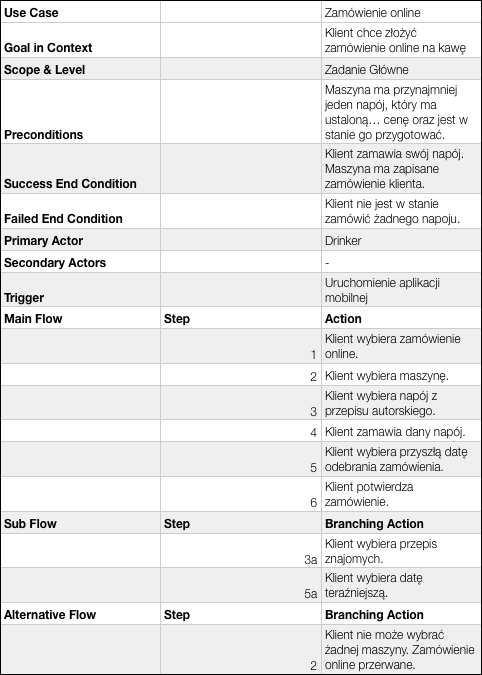
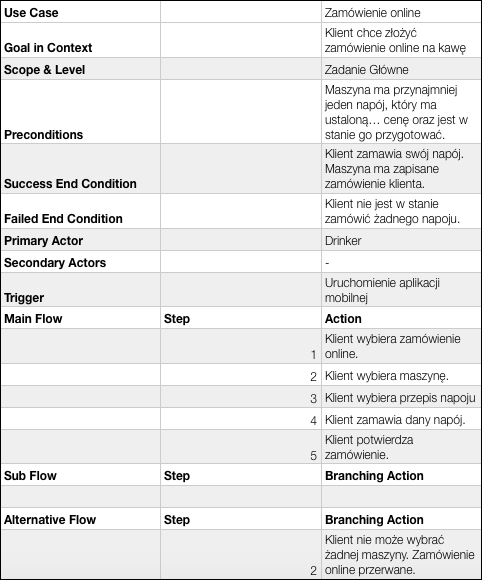
Added Class Diagrams and Sequence Diagrams in s9549/models, Updated Use Case Description

diff --git a/examples/coffeemaker/src/test/java/edu/pjatk/inn/coffeemaker/CoffeeMakerTest.java b/examples/coffeemaker/src/test/java/edu/pjatk/inn/coffeemaker/CoffeeMakerTest.java
@@ -92,6 +92,7 @@ public class CoffeeMakerTest {
 	public void addContextRecepie() throws Exception {
 		coffeeMaker.addRecipe(Recipe.getContext(mocha));
 		assertEquals(coffeeMaker.getRecipeForName("mocha").getName(), "mocha");
+		assertEquals(true,false);
 	}
 
 	@Test
